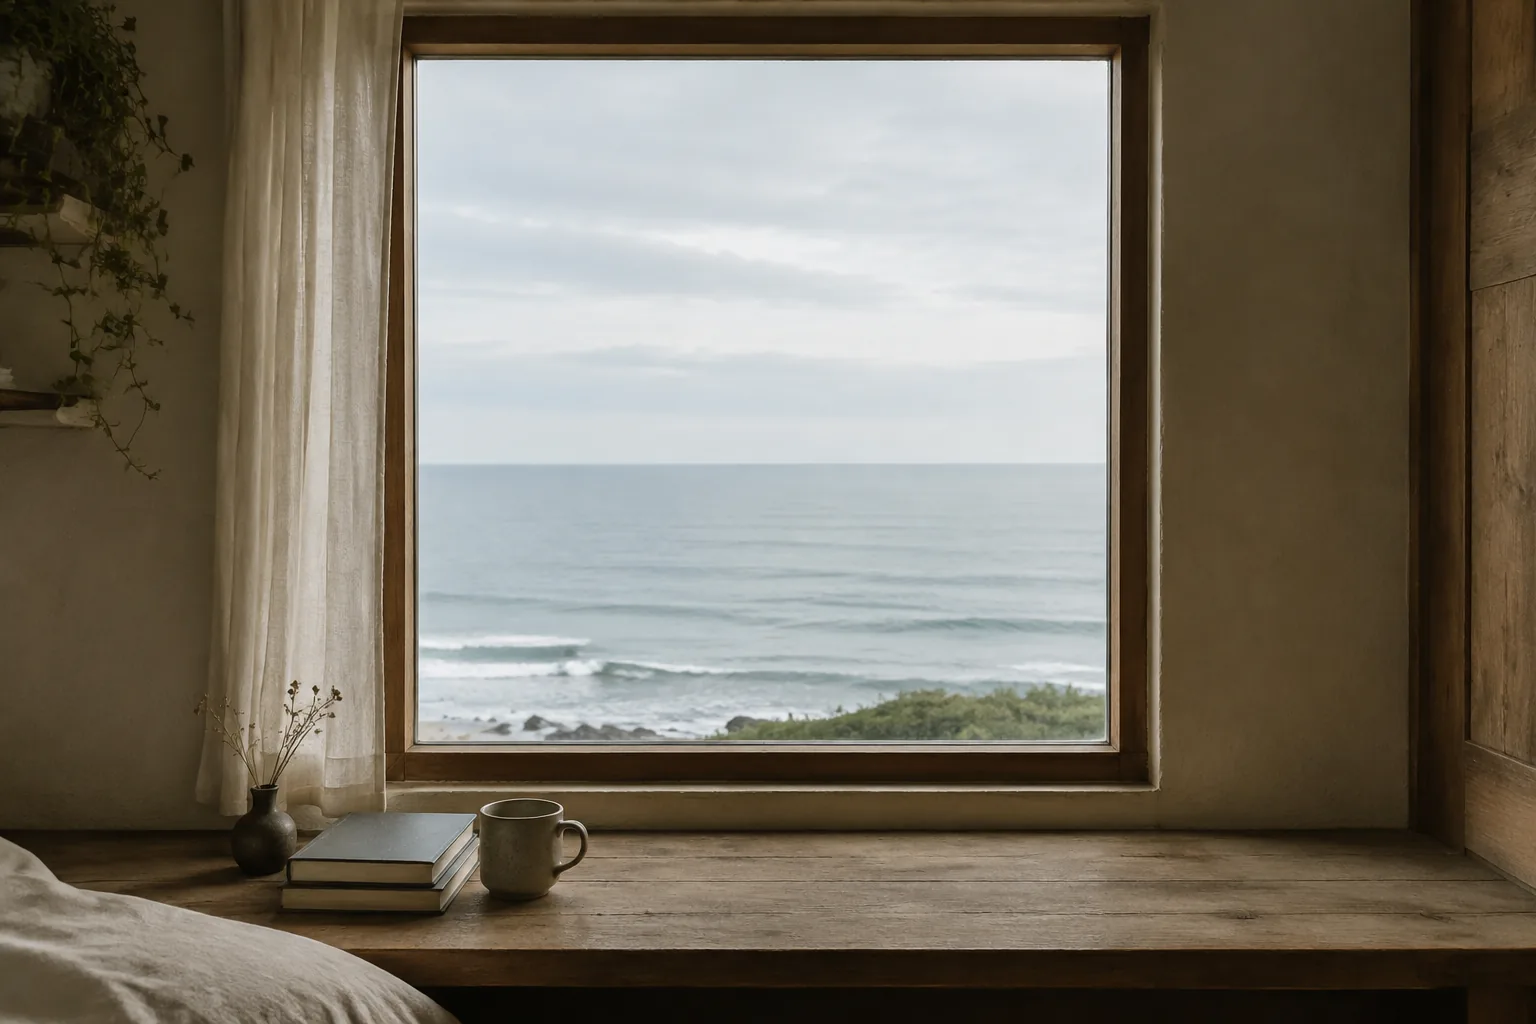
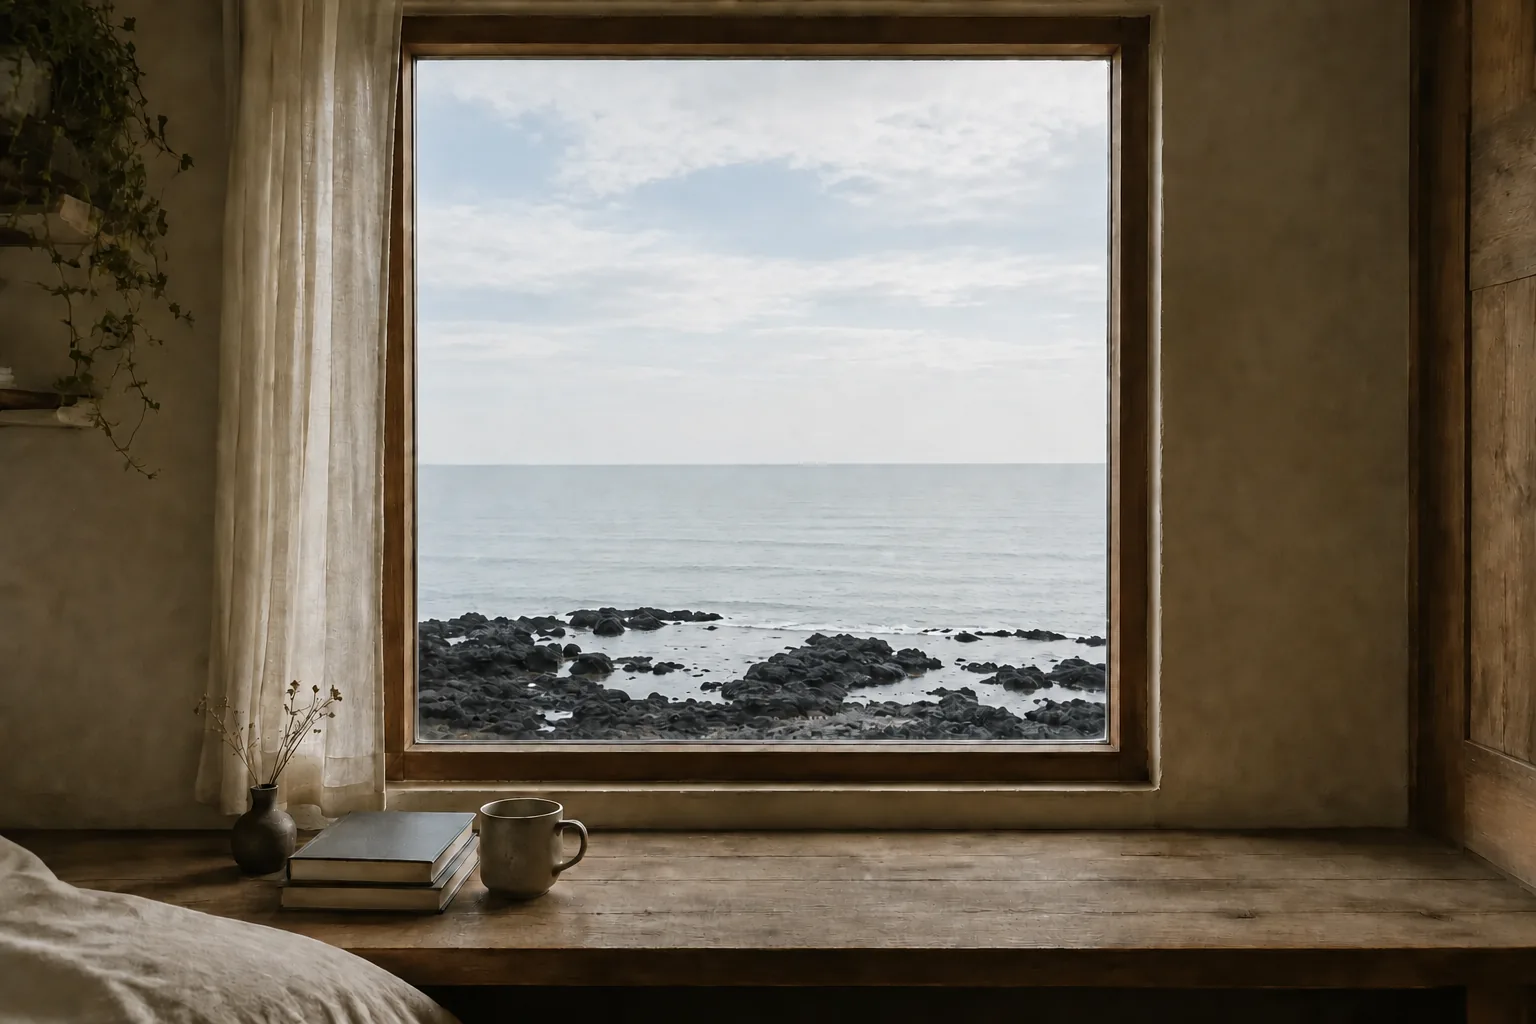
refine: v0.8 현무암 해안 배경

diff --git a/src/versions/v0.8/style.css b/src/versions/v0.8/style.css
@@ -45,7 +45,7 @@
 .v08-window-motion {
   position: absolute;
   z-index: -1;
-  top: 31%;
+  top: 42%;
   left: 50%;
   width: min(48vw, 740px);
   height: min(30vw, 330px);
@@ -196,7 +196,7 @@
 
 @media (max-width: 720px) {
   .v08-room { background-position: 50% center; }
-  .v08-window-motion { top: 43%; width: 100vw; height: 32vh; }
+  .v08-window-motion { top: 43%; left: 50%; width: 100vw; height: 32vh; }
   .v08-timepiece { right: 13%; bottom: 14%; width: clamp(57px, 17vw, 74px); }
   .v08-mark { color: rgba(250, 246, 237, .92); text-shadow: 0 1px 7px rgba(24,19,13,.72); }
   .v08-ending { top: 38.5%; width: calc(100vw - 38px); }
